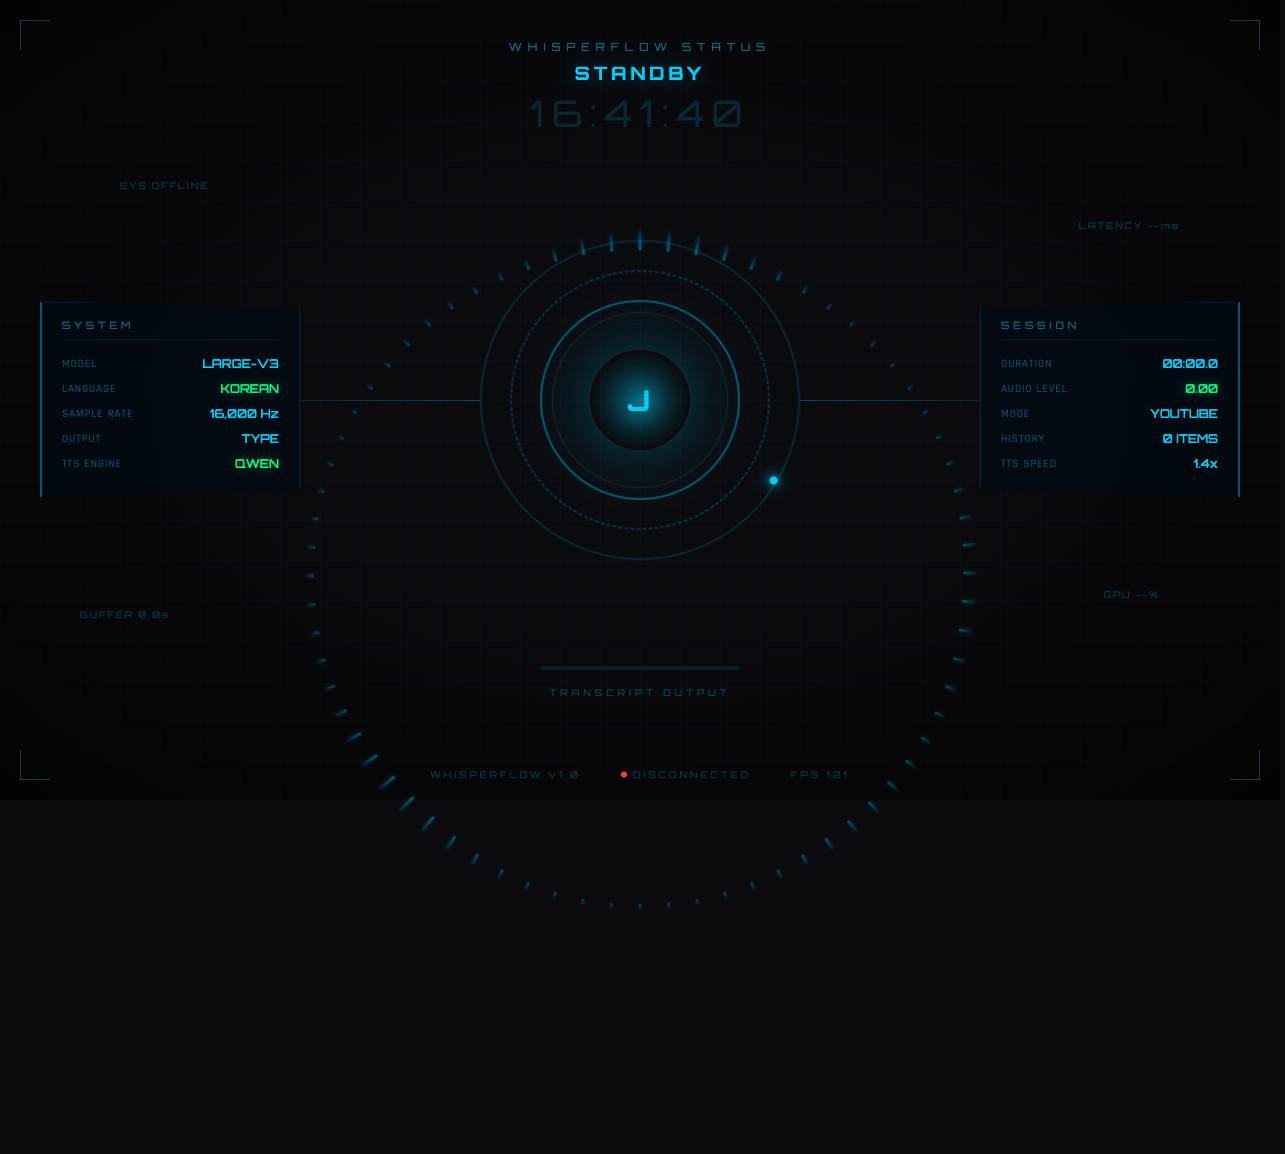
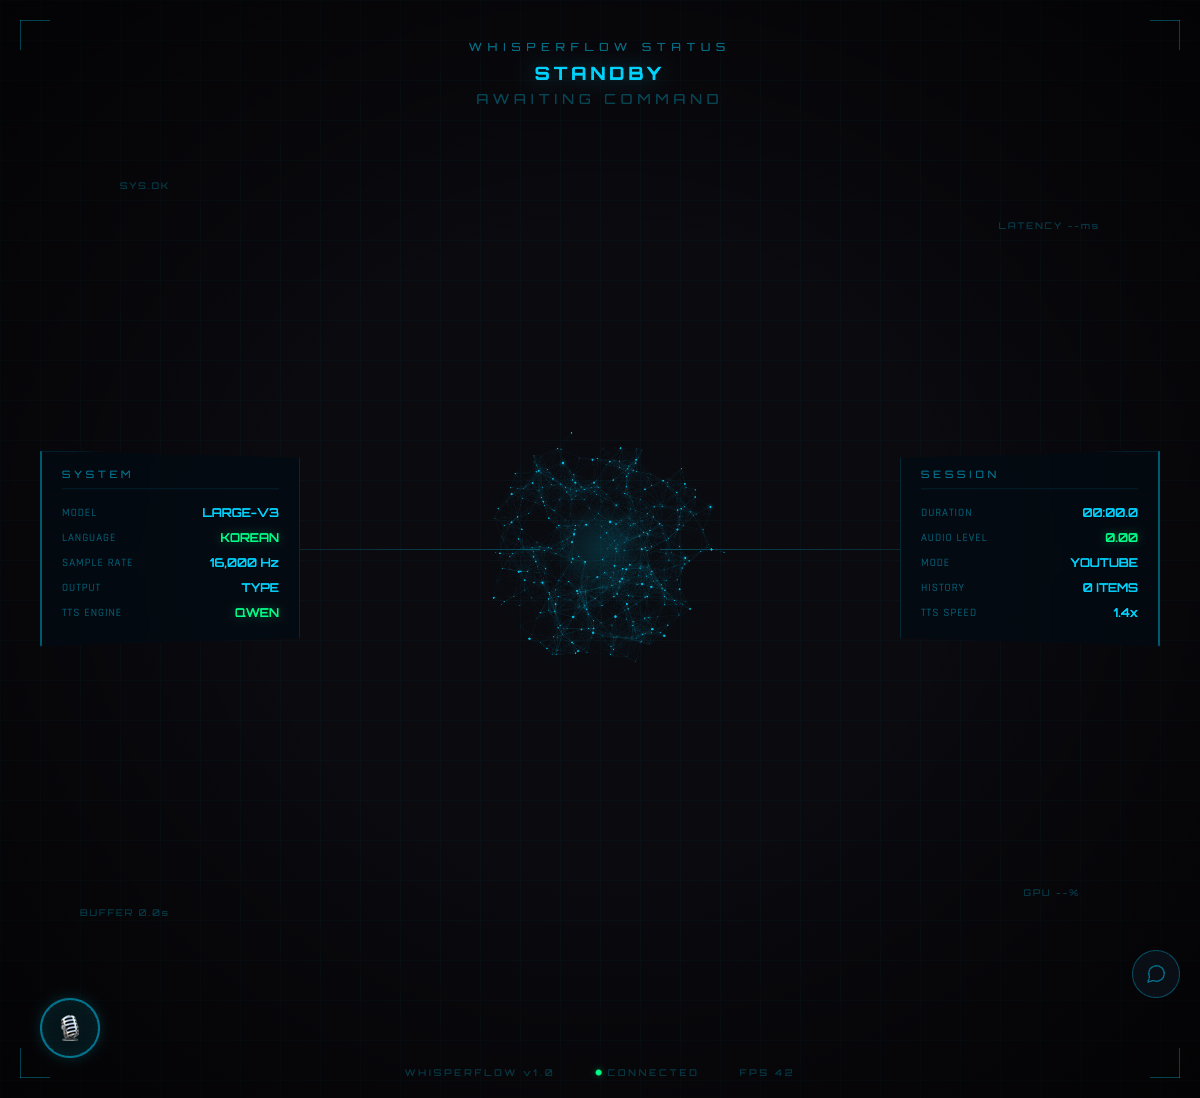
Replace outdated UI mockups with live particle-system screenshots
- Capture 4 real JARVIS UI states from current build (commit 117a44d):
  idle(cyan) / recording(red burst) / thinking(purple) / speaking(green core)
- Screenshots driven via WebSocket-mock injection through the real message
  pipeline, so audio-reactive particle behavior is genuine (not a mockup)
- Remove old 4/20 arc-reactor mockups (jarvis_mockup, jarvis_with_conversation,
  jarvis_input_output)
- Rewrite README state section with accurate colors/labels + add missing
  Recording image; update progress table (voice-sync particles now ✅ done)
- Fix .gitignore: inline comment on "!jarvis_*.png" was breaking the negation,
  which had silently ignored new state images

diff --git a/README.md b/README.md
@@ -2,7 +2,7 @@
 
 > macOS에서 로컬 음성인식 + AI 음성 응답 + 시각화 UI를 통합한 개인 어시스턴트
 
-![WhisperFlow JARVIS UI](./jarvis_mockup.png)
+![WhisperFlow JARVIS UI](./jarvis_idle.png)
 
 ## ✨ 핵심 기능
 
@@ -30,27 +30,81 @@
 
 ---
 
-## 🎬 JARVIS UI 데모 (Coming Soon)
+## 🎬 JARVIS UI 상태별 화면
 
-현재 개발 중인 JARVIS UI 프로토타입:
+420개 입자로 이뤄진 성운(constellation) 클라우드가 어시스턴트 상태에 따라 색과 움직임을 바꾸며,
+자비스 음성(TTS)에 실시간으로 반응합니다.
 
-### 파티클 음성 반응
-AI 응답 시 파티클이 음성에 반응하여 움직임  
-![JARVIS Particles](./jarvis_with_conversation.png)
+### 🎯 스탠바이 (STANDBY)
+음성 입력을 기다리는 대기 상태.
 
-### 입출력 UI
-음성 입력 → AI 처리 → 음성 출력 시각화  
-![JARVIS Input/Output](./jarvis_input_output.png)
+![JARVIS Idle](./jarvis_idle.png)
 
-### 브라우저 피드
-Chrome DevTools와 연동하여 실시간 웹 페이지 캡처  
+**특징:**
+- 청록색(cyan) 입자가 은은하게 부유
+- "AWAITING COMMAND" 표시
+- 낮은 부하로 상시 대기
+
+---
+
+### 🎙 리스닝 (RECORDING)
+단축키를 누르면 음성 입력을 감지하고, 입자가 소리에 반응해 바깥으로 퍼집니다.
+
+![JARVIS Recording](./jarvis_recording.png)
+
+**특징:**
+- 빨간색(red) 입자가 음량에 따라 폭발적으로 확산
+- 하단 "LISTENING…" 실시간 파형
+- AUDIO LEVEL 실시간 표시
+
+---
+
+### 💬 생각 중 (THINKING)
+AI가 응답을 생성하는 동안 입자가 응집·재배열됩니다.
+
+![JARVIS Thinking](./jarvis_thinking.png)
+
+**특징:**
+- 보라색(purple) 입자로 "PROCESSING QUERY" 표현
+- 상태 전환 시 부드러운 색·모션 트랜지션
+
+---
+
+### 🔊 음성 응답 (SPEAKING)
+자비스가 말할 때, TTS 음성의 음량·주파수 대역에 맞춰 입자가 실시간으로 진동합니다.
+
+![JARVIS Speaking](./jarvis_speaking.png)
+
+**특징:**
+- 초록색(green) 입자 + 중심 코어 글로우
+- "VOICE OUTPUT :: STREAMING" 표시
+- 3-band(저/중/고역) 주파수 분석으로 입자 반응
+
+---
+
+### 🌐 브라우저 피드 (선택사항)
+Chrome DevTools(CDP)와 연동하여 웹 페이지를 실시간 캡처 (목업)
+
 ![Browser Feed](./jarvis_browser_feed_mockup.png)
 
-**현재 진행률**: 
-- ✅ 파티클 효과 완성
-- ✅ 3D 모델 뷰어 완성
-- 🔄 음성 실시간 동기화 (진행 중)
-- ⏳ 우아한 UI 디자인 (예정)
+**기능:**
+- 현재 보고 있는 웹 페이지 표시
+- 음성 명령으로 브라우저 제어
+- 실시간 스크린샷 캡처
+
+---
+
+## 📊 개발 진행상황
+
+| 기능 | 상태 | 설명 |
+|------|------|------|
+| 파티클 성운 시스템 | ✅ 완성 | 420입자, 상태별 색·모션 |
+| 음성 동기화 파티클 | ✅ 완성 | TTS 음량·3-band 주파수 반응 |
+| 상태별 색상 변화 | ✅ 완성 | Standby/Recording/Thinking/Speaking |
+| 3D 모델 뷰어 | ✅ 완성 | STL 홀로그램 실시간 렌더링 |
+| 제스처 컨트롤 | ✅ 완성 | MediaPipe 손 인식 |
+| UI 디자인 개선 | ⏳ 예정 | 더 우아한 레이아웃 |
+| 모바일 반응형 | ⏳ 예정 | iPad/모바일 지원 |
 
 ## 🚀 설치 & 실행
 
